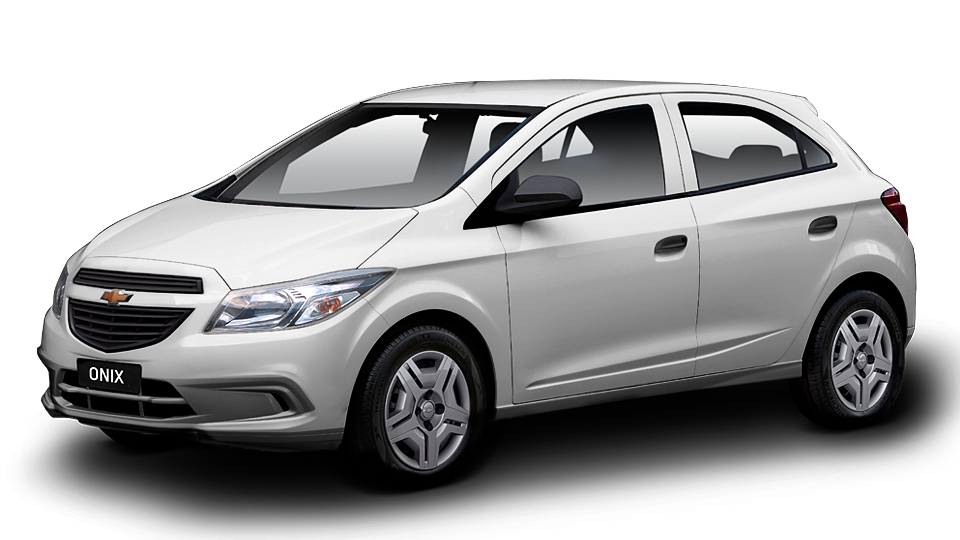
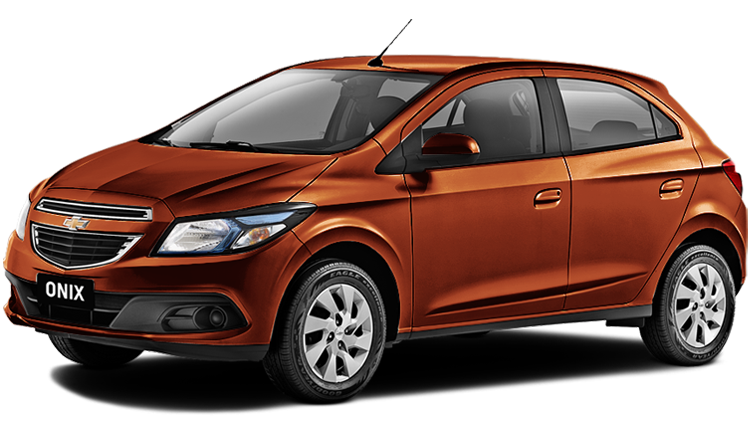
Pagina dos carros, novos background para diferentes paginas

diff --git a/app/assets/stylesheets/application.scss b/app/assets/stylesheets/application.scss
@@ -15,6 +15,7 @@ nav{
   top: -5px;
   text-align: center;
   left: 30%;
+  z-index: 1;
 }
 
 li{
@@ -80,4 +81,13 @@ header{
 
 #cars_sales{
   margin-bottom: 100px;
+}
+
+#more{
+  color: blue !important;
+}
+
+
+#car_info{
+  width: 550px;
 }

diff --git a/config/routes.rb b/config/routes.rb
@@ -2,4 +2,5 @@ Triumph::Application.routes.draw do
   get "/", to: "pages#index", as: :root
   get "/carros", to: "pages#cars", as: :cars
   get "/informacao", to: "pages#about", as: :about
+  get "/carro/:id", to: "pages#car", as: :car
 end

diff --git a/app/controllers/pages_controller.rb b/app/controllers/pages_controller.rb
@@ -12,4 +12,8 @@ class PagesController < ApplicationController
   def about
 
   end
+
+  def car
+    @car = Car.find params[:id]
+  end
 end
